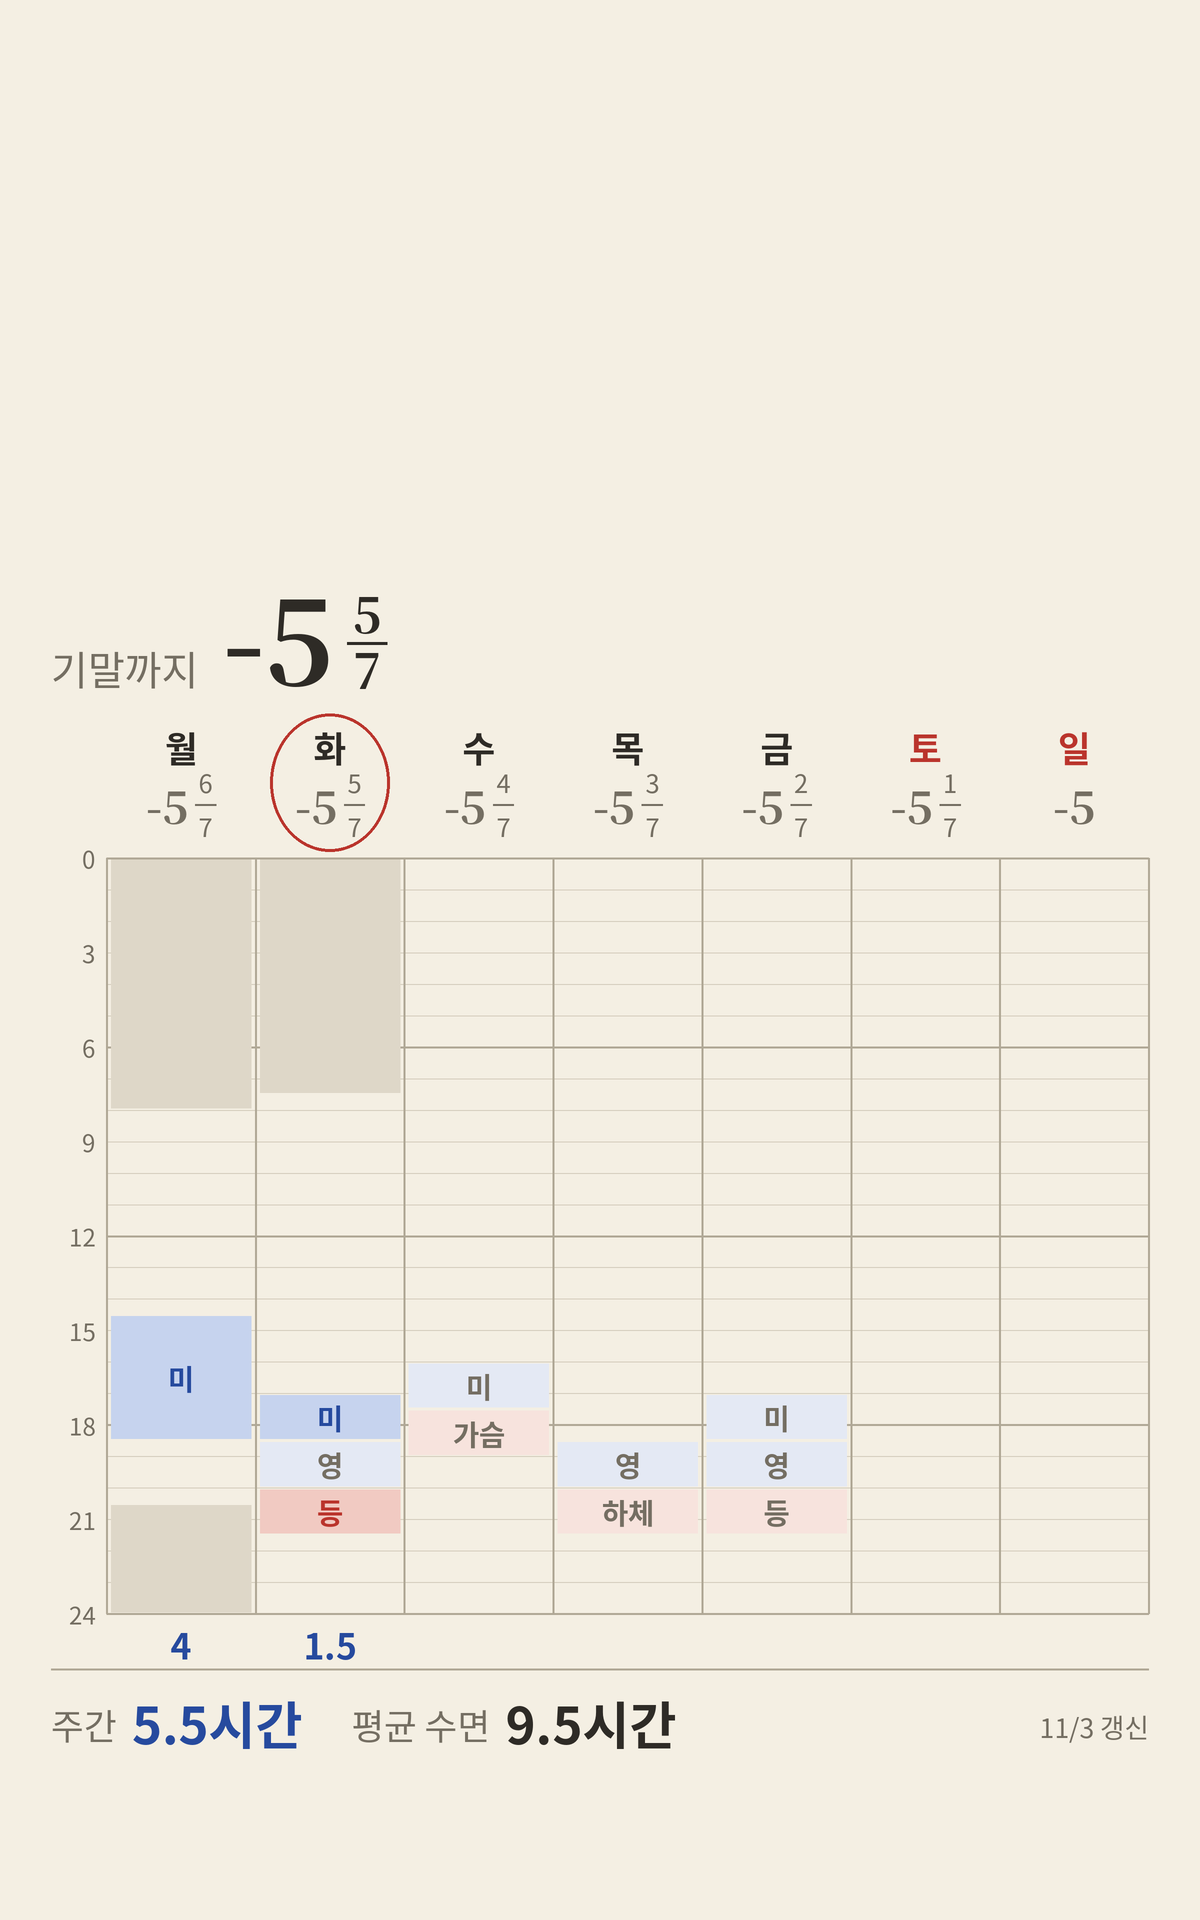
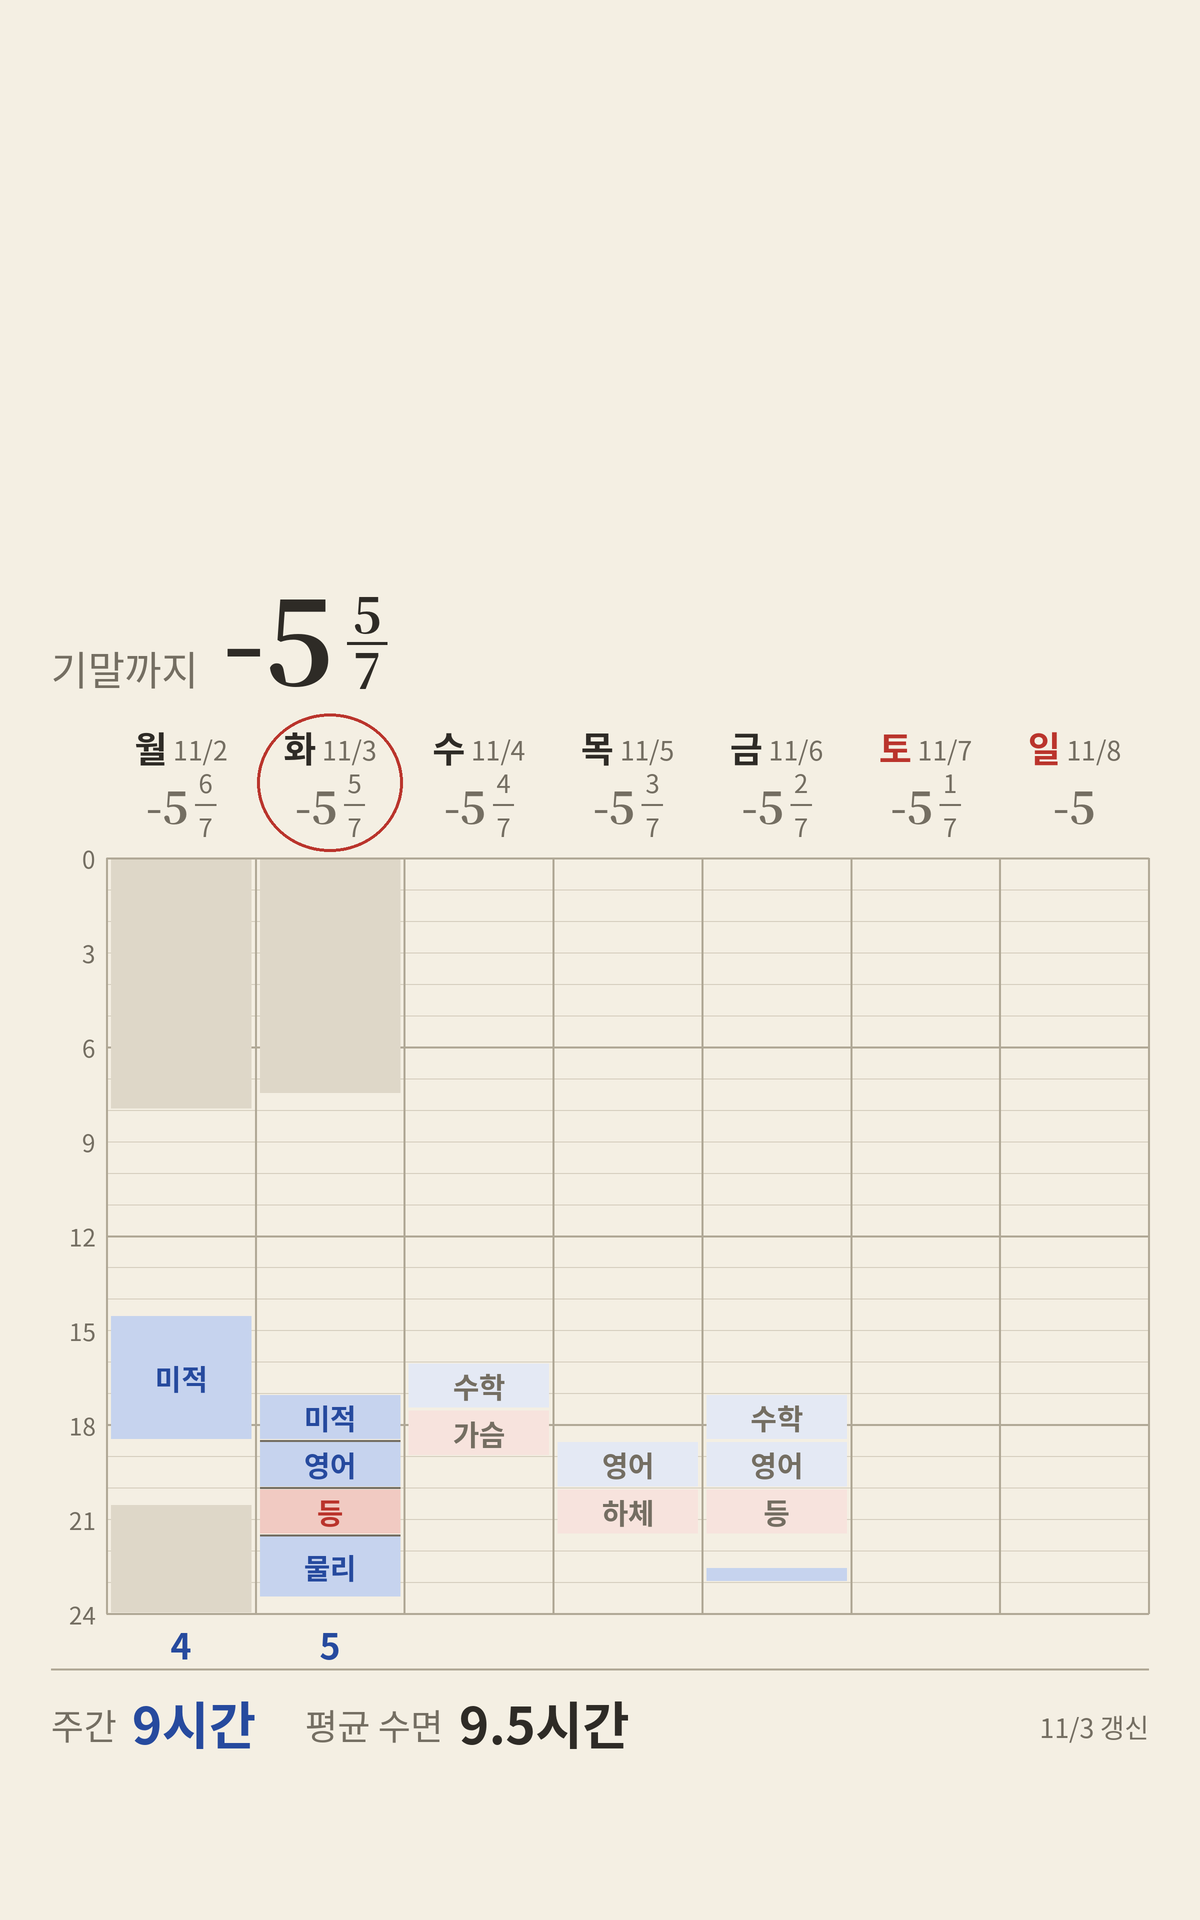
Full subject names, dates beside weekdays
Claude-Session: https://claude.ai/code/session_016sgH3U9eL8kEJgSR4TfZt2

diff --git a/make.py b/make.py
@@ -68,10 +68,13 @@ def box_text(g, box, s, color, u):
     """칸 높이에 맞춰 글자 크기를 줄이고, 너무 작아지면 생략한다."""
     h = box[3] - box[1]
     size = min(26 * u, h * 0.8)
-    if size < 15 * u:
+    # 칸 너비에 맞을 때까지 글자를 줄인다 (이름은 줄여 쓰지 않는다).
+    while size >= 12 * u and text_w(g, s, font(BOLD, int(size))) >= box[2] - box[0] - 4 * u:
+        size -= u
+    if size < 12 * u:
         return
     f = font(BOLD, int(size))
-    if text_w(g, s, f) < box[2] - box[0] - 4 * u:
+    if True:
         g.text(((box[0] + box[2]) / 2, (box[1] + box[3]) / 2), s, font=f, fill=color, anchor="mm")
 
 
@@ -136,9 +139,12 @@ def draw(data, today, W, H, out):
     f_head, f_date = font(BOLD, int(32 * u)), font(SANS, int(23 * u))
     for i, d in enumerate(dates):
         cx = grid_l + col * (i + 0.5)
-        name = WD[i]
+        name, md_ = WD[i], f" {d.month}/{d.day}"
         color = RED if i >= 5 else INK
-        g.text((cx - text_w(g, name, f_head) / 2, y - 6 * u), name, font=f_head, fill=color)
+        f_md = font(SANS, int(24 * u))
+        tw = text_w(g, name, f_head) + text_w(g, md_, f_md)
+        g.text((cx - tw / 2, y - 6 * u), name, font=f_head, fill=color)
+        g.text((cx - tw / 2 + text_w(g, name, f_head), y + 2 * u), md_, font=f_md, fill=INK_SOFT)
         # 날짜 대신 그날 기준 시험까지 남은 기간을 대분수(-5 5/7)로 적는다.
         exam = data.get("exam")
         left = (datetime.date.fromisoformat(exam["date"]) - d).days if exam else -1
@@ -160,7 +166,7 @@ def draw(data, today, W, H, out):
             md = f"{d.month}/{d.day}"
             g.text((cx - text_w(g, md, f_date) / 2, y + 56 * u), md, font=f_date, fill=INK_SOFT)
         if d == today:
-            r_x, r_y = col * 0.40, 62 * u
+            r_x, r_y = col * 0.49, 62 * u
             g.ellipse((cx - r_x, y + 50 * u - r_y, cx + r_x, y + 50 * u + r_y),
                       outline=RED, width=max(2, int(3 * u)))
     top = y + 118 * u

diff --git a/sync.py b/sync.py
@@ -10,7 +10,7 @@ import os
 import sys
 
 KST = datetime.timezone(datetime.timedelta(hours=9))
-SHORT = {"영어": "영", "수학": "미", "미적": "미", "기하": "기", "화학": "화", "국어": "국", "물리": "물", "데이터과학": "데"}
+SHORT = {}  # 과목 이름은 줄이지 않고 그대로 쓴다
 SPLIT = ["등", "가슴", "하체"]  # 3분할 순서. 마지막으로 한 부위의 다음부터 채운다.
 STUDY = ("학원", "자습", "인강")
 
